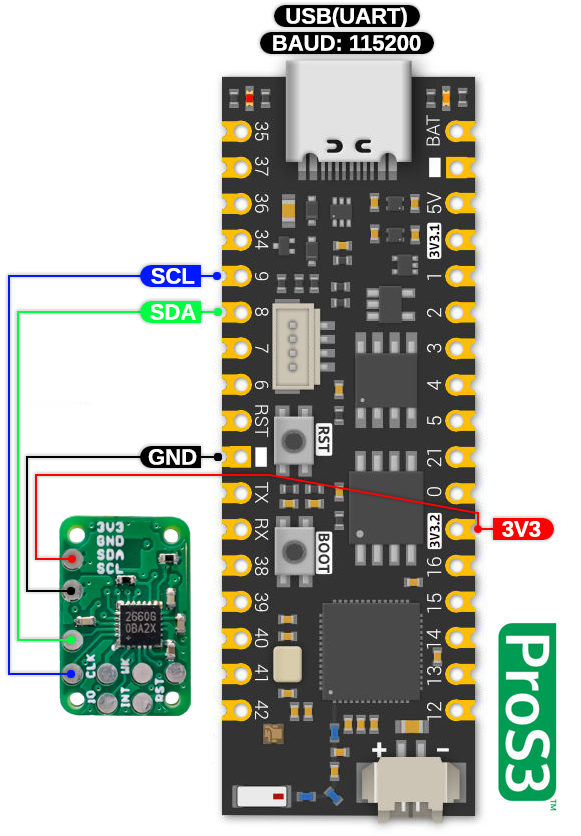
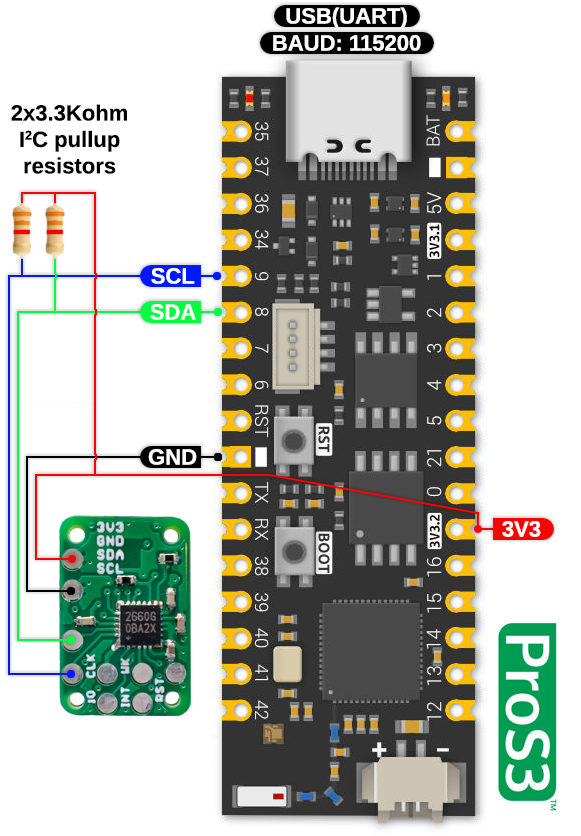
[FIX] Missed i2c pullup resistors from wiring diagram. Typo fixes.

Changed region(s): [[0.0, 0.1244, 0.2169, 0.5598]]

diff --git a/host_software/circuitpython_host/sensor_fusion.py b/host_software/circuitpython_host/sensor_fusion.py
@@ -463,7 +463,7 @@ class SensorFusion:
 
     def _set_gyro_calibration_data(self, gyro_calibration_data:InertialCalibrationData):
         '''
-        Does not starts and stops (applies) the calibration data.
+        Does not start and stop (applies) the calibration data.
         User must call start_calibration_upload() before and
         stop_calibration_upload() after calling this method.
         '''
@@ -475,7 +475,7 @@ class SensorFusion:
 
     def _set_accel_calibration_data(self, accel_calibration_data:InertialCalibrationData):
         '''
-        Does not starts and stops (applies) the calibration data.
+        Does not start and stop (applies) the calibration data.
         User must call start_calibration_upload() before and
         stop_calibration_upload() after calling this method.
         '''
@@ -487,7 +487,7 @@ class SensorFusion:
 
     def _set_mag_calibration_data(self, mag_calibration_data:MagCalibrationData):
         '''
-        Does not starts and stops (applies) the calibration data.
+        Does not start and stop (applies) the calibration data.
         User must call start_calibration_upload() before and
         stop_calibration_upload() after calling this method.
         '''
